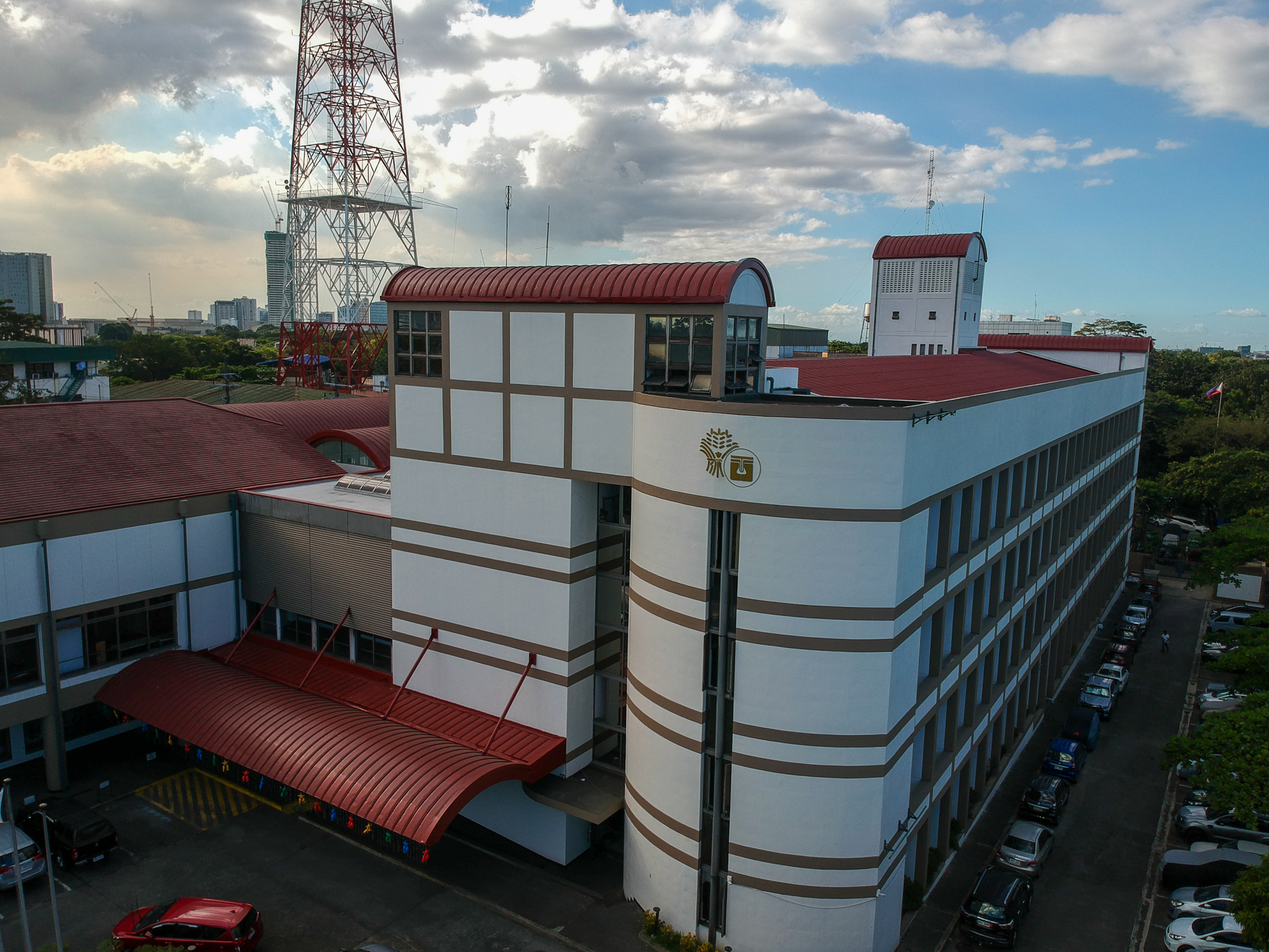
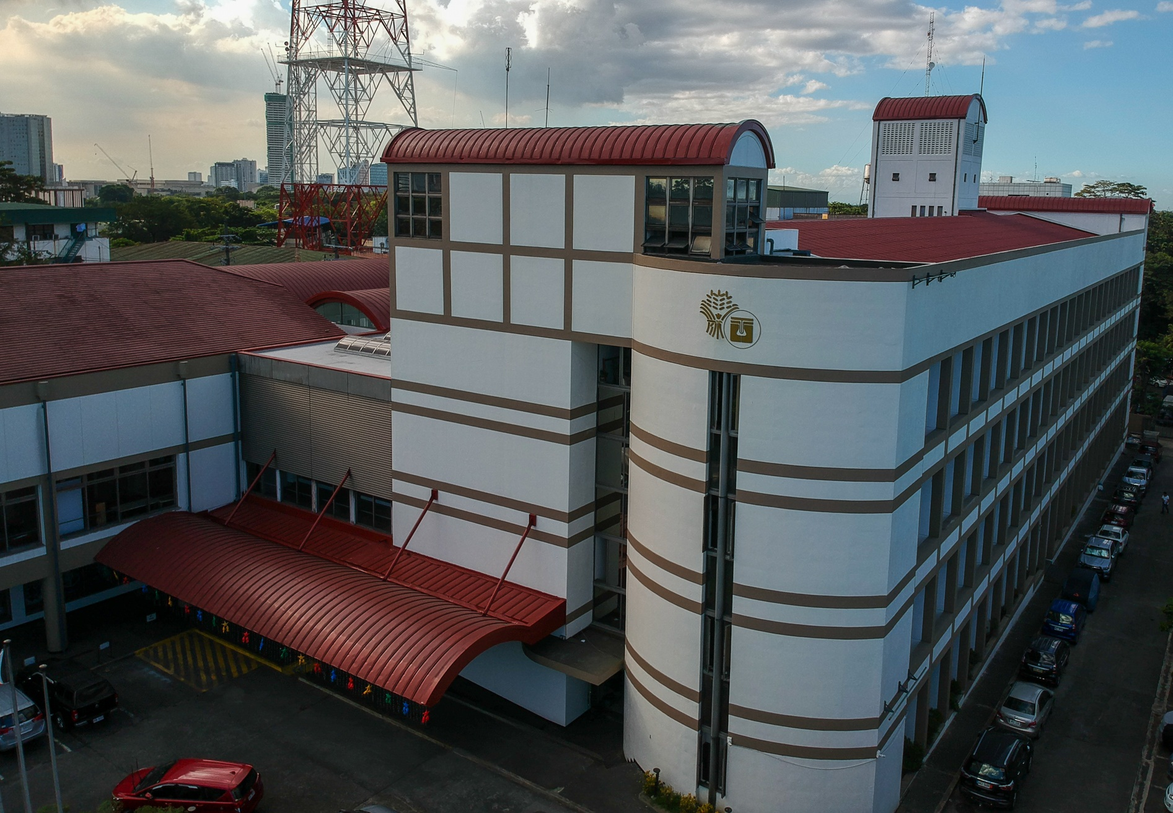
etr base path fix

diff --git a/wwwroot/js/etrWorkFromHome.js b/wwwroot/js/etrWorkFromHome.js
@@ -61,16 +61,19 @@ window.etrWorkFromHome = (function () {
             throw new Error('Camera preview is not ready.');
         }
 
+        const maxWidth = 480;
+        const maxHeight = 360;
+        const scale = Math.min(1, maxWidth / videoElement.videoWidth, maxHeight / videoElement.videoHeight);
         const canvas = document.createElement('canvas');
-        canvas.width = videoElement.videoWidth;
-        canvas.height = videoElement.videoHeight;
+        canvas.width = Math.max(1, Math.round(videoElement.videoWidth * scale));
+        canvas.height = Math.max(1, Math.round(videoElement.videoHeight * scale));
 
         const context = canvas.getContext('2d');
         context.imageSmoothingEnabled = true;
         context.imageSmoothingQuality = 'high';
         context.drawImage(videoElement, 0, 0, canvas.width, canvas.height);
 
-        return canvas.toDataURL('image/jpeg', 0.95);
+        return canvas.toDataURL('image/jpeg', 0.7);
     }
 
     return {

diff --git a/Program.cs b/Program.cs
@@ -47,8 +47,12 @@ builder.Services.AddCors();
 builder.Services.AddLocalization();
 builder.Services.AddRazorComponents()
     .AddInteractiveServerComponents();
+builder.Services.AddSignalR(options =>
+{
+    options.MaximumReceiveMessageSize = 2 * 1024 * 1024;
+});
 builder.Services.AddControllers();
-builder.Services.AddAntiforgery(options => options.Cookie.Path = "/etr");
+builder.Services.AddAntiforgery();
 
 builder.Services.AddEndpointsApiExplorer();
 builder.Services.AddSwaggerGen(c =>
@@ -84,11 +88,9 @@ builder.Services.Configure<Microsoft.AspNetCore.Components.Server.CircuitOptions
 
 var app = builder.Build();
 
-app.UsePathBase("/etr");
-
 if (!app.Environment.IsDevelopment())
 {
-    app.UseExceptionHandler("/Error", createScopeForErrors: true);
+    app.UseExceptionHandler("/etr/Error", createScopeForErrors: true);
     app.UseHsts();
 }
 else
@@ -99,11 +101,11 @@ else
 app.UseSwagger();
 app.UseSwaggerUI(c =>
 {
-    c.SwaggerEndpoint("/etr/swagger/v1/swagger.json", "ETRS API v1");
+    c.SwaggerEndpoint("/swagger/v1/swagger.json", "ETRS API v1");
     c.DisplayRequestDuration();
 });
 
-app.UseStatusCodePagesWithReExecute("/not-found", createScopeForStatusCodePages: true);
+app.UseStatusCodePagesWithReExecute("/etr/not-found", createScopeForStatusCodePages: true);
 app.UseHttpsRedirection();
 app.UseAntiforgery();
 

diff --git a/Data/ProcurementDbContext.cs b/Data/ProcurementDbContext.cs
@@ -1,6 +1,5 @@
 using Financial.Model;
 using Financial.Model.Dtr;
-using Financial.Model.Library;
 // Procurement and Trace models removed from this project; only DTR models are used here.
 using Microsoft.EntityFrameworkCore;
 using Microsoft.EntityFrameworkCore.Metadata;
